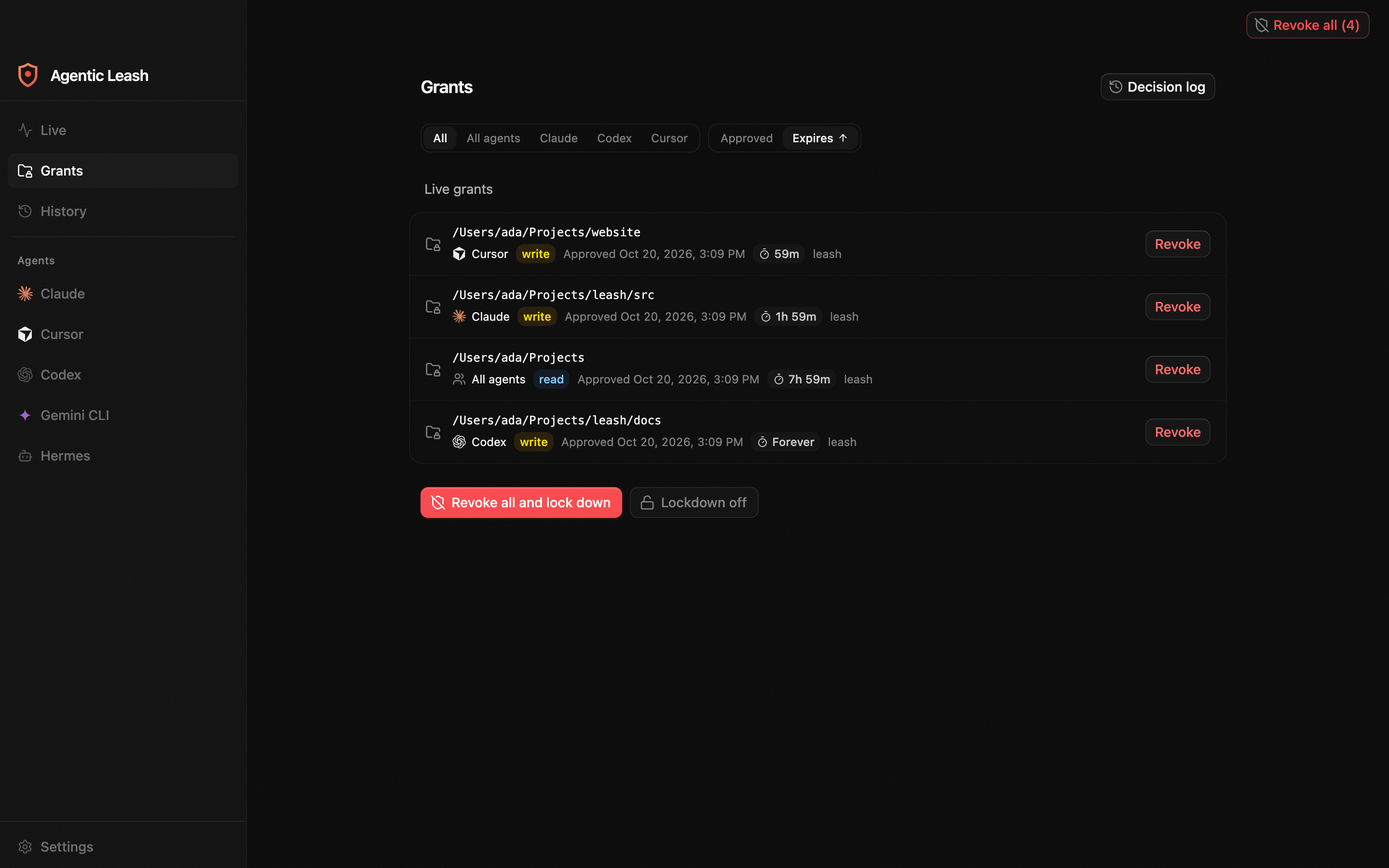
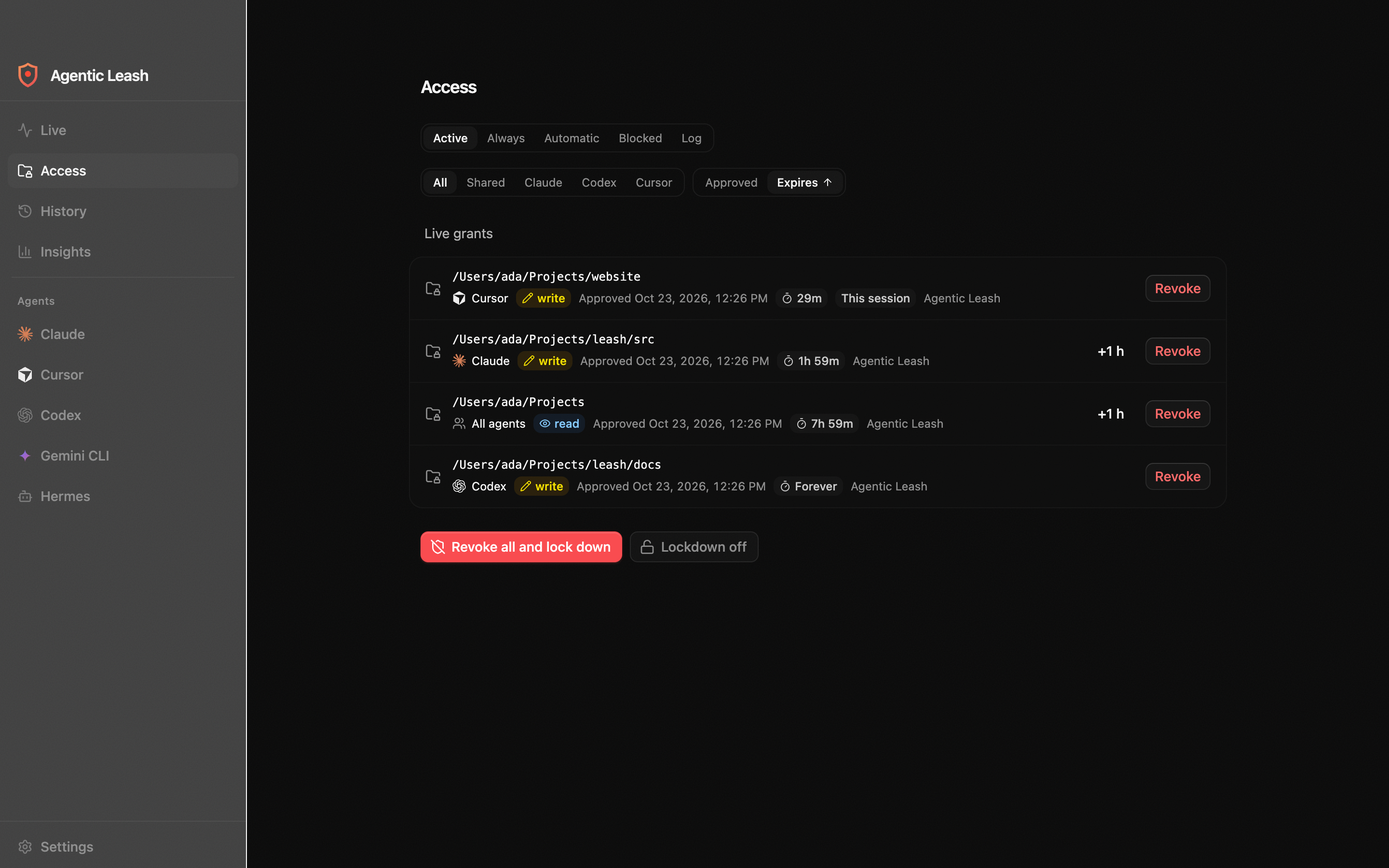
docs: Refresh screenshots, link downloads to the latest release, and add an MIT license
The README now points at the latest release instead of a versioned .dmg, lists supported platforms and agents, and documents the build and screenshot commands. The walkthrough capture follows the v0.2.0 approval popup, and the history still is cropped to show the whole diff.

diff --git a/tests/e2e/marketing.e2e.ts b/tests/e2e/marketing.e2e.ts
@@ -159,16 +159,18 @@ test("walkthrough frames", async () => {
   await new Promise((resolve) => socket.once("connect", resolve));
   socket.write(`${JSON.stringify({ id: "walk-1", request: { agent: "cursor", event: "preToolUse", tool: "Write", access: "write", paths: ["/Users/ada/Projects/website/index.html"], cwd: "/Users/ada/Projects/website" } })}\n`);
   const popup = await app.waitForEvent("window", { predicate: (page) => page.url().includes("#/approval") });
-  await expect(popup.getByText("Cursor wants write access")).toBeVisible();
+  await expect(popup.getByText("Cursor wants to change a file")).toBeVisible();
   await box("popupPath", popup.locator("pre"));
   await shot(popup, "04-approval");
   await popup.getByRole("button", { name: "website", exact: true }).click();
+  await expect(popup.getByText("Allow website this session")).toBeVisible();
+  const allow = popup.getByRole("button", { name: /^This session/ });
   await box("popupScope", popup.getByRole("button", { name: "website", exact: true }));
-  await box("popupTtl", popup.getByRole("radiogroup", { name: "Allow for" }));
-  await box("popupAllow", popup.getByRole("button", { name: /Allow website for 1 hour/ }));
+  await box("popupTtl", allow.locator("xpath=.."));
+  await box("popupAllow", allow);
   await shot(popup, "05-approval-scope");
-  await expect(popup.getByRole("button", { name: /^Allow/ })).toBeEnabled();
-  await popup.keyboard.press("Enter");
+  await expect(allow).toBeEnabled();
+  await allow.click();
   await expect.poll(() => win.evaluate(`window.leash.listGrants().then((rows) => rows.length)`)).toBe(4);
   socket.destroy();
 

diff --git a/README.md b/README.md
@@ -1,12 +1,52 @@
-![Agentic Leash. Your AI agents. On a leash.](docs/media/banner.png)
+<p align="center">
+  <img src="docs/media/banner.png" alt="Agentic Leash. Your AI agents. On a leash." />
+</p>
 
-# Agentic Leash
+<h1 align="center">Agentic Leash</h1>
 
-See and control what AI coding agents can touch on your Mac.
+<p align="center">See and control what AI coding agents can touch on your Mac.</p>
 
-[Download Agentic Leash 0.1.2 for Apple Silicon](https://github.com/velusgautam/Agentic-Leash/releases/download/v0.1.2/Agentic.Leash-0.1.2-arm64.dmg)
+<p align="center">
+  <a href="https://github.com/velusgautam/Agentic-Leash/releases/latest"><img src="https://img.shields.io/github/v/release/velusgautam/Agentic-Leash?label=release" alt="Latest release" /></a>
+  <a href="https://github.com/velusgautam/Agentic-Leash/releases"><img src="https://img.shields.io/github/downloads/velusgautam/Agentic-Leash/total" alt="Downloads" /></a>
+  <a href="https://github.com/velusgautam/Agentic-Leash/actions/workflows/ci.yml"><img src="https://img.shields.io/github/actions/workflow/status/velusgautam/Agentic-Leash/ci.yml?label=ci" alt="CI" /></a>
+  <img src="https://img.shields.io/badge/platform-macOS%20(Apple%20Silicon)-black" alt="Platform: macOS on Apple Silicon" />
+  <a href="LICENSE"><img src="https://img.shields.io/github/license/velusgautam/Agentic-Leash" alt="MIT License" /></a>
+</p>
+
+<p align="center">
+  <a href="#download">Download</a> ·
+  <a href="#features">Features</a> ·
+  <a href="#how-it-hooks-in">How it works</a> ·
+  <a href="#build-from-source">Build from source</a> ·
+  <a href="https://github.com/velusgautam/Agentic-Leash/releases">Changelog</a>
+</p>
 
 Claude, Cursor, Codex, Gemini CLI and Hermes keep working. Agentic Leash watches the files they read and write, asks before they reach a folder you have not allowed, and flags sensitive paths like `~/.ssh` the moment they are touched.
+
+## Download
+
+Get the installer for your platform from the [latest release](https://github.com/velusgautam/Agentic-Leash/releases/latest).
+
+| Platform | Installer | Status |
+| --- | --- | --- |
+| macOS, Apple Silicon | `.dmg`, signed and notarized | Supported |
+| Windows x64 | `.exe` | Preview |
+| Linux x64 | `.AppImage` | Preview |
+
+On Windows and Linux, approvals and grants work, but the file-activity history does not. It relies on macOS `eslogger`.
+
+Release notes for every version are on the [releases page](https://github.com/velusgautam/Agentic-Leash/releases).
+
+## Supported agents
+
+| Agent | Hook events |
+| --- | --- |
+| Claude (desktop app and `claude` CLI) | `PreToolUse` |
+| Codex | `PreToolUse` |
+| Cursor | `preToolUse`, `beforeReadFile`, `beforeShellExecution`, `beforeMCPExecution` |
+| Gemini CLI | `BeforeTool` |
+| Hermes | `pre_tool_call` |
 
 ## Features
 
@@ -14,7 +54,7 @@ Claude, Cursor, Codex, Gemini CLI and Hermes keep working. Agentic Leash watches
 
 ![Grants filtered and sorted by expiry](docs/media/grants.png)
 
-A grant can last 15 minutes, a couple of hours, or forever. Filter the list by agent and sort it by when it was approved or when it expires.
+A grant can last one call, a session, a day, or forever. The Access page lists every live grant with its time left. Filter the list by agent and sort it by when it was approved or when it expires.
 
 ### Revoke, then lock down
 
@@ -38,7 +78,7 @@ Reads of `~/.ssh`, `~/.aws` and other secret paths are marked in red on Live and
 
 ![Approval popup for a Cursor write to a new folder](docs/media/approval.png)
 
-A tool call outside an existing grant opens this popup. Allow it for 15 minutes, 1 hour, 8 hours or always, or deny it. The same choices are on the Grants page while a request is waiting.
+A tool call outside an existing grant opens this popup. Allow it once, for this session or for today, widen it to the whole folder, or deny it. Never blocks it for good. The same choices are on the Access page while a request is waiting.
 
 ### Appearance
 
@@ -111,17 +151,38 @@ Setup installs the hook into each agent that is turned on. The hook asks the bro
 
 Separately, a root helper tails `eslogger` and writes file activity into `history.db`, including the before and after of writes and a sensitive flag. Live and History read that database. The grant shown beside a write is the one whose folder covers the path.
 
-## Run it
+## First run
 
-macOS on Apple Silicon, Node 24 and pnpm 12.
+The first open stays on setup until the history helper is running and Full Disk Access is granted. The helper is a root LaunchDaemon, so macOS asks for an administrator password once. Turning an agent off in Settings hides it and removes its hooks.
+
+## Build from source
+
+Needs macOS on Apple Silicon, Node 24 and pnpm 12.
 
 ```bash
 pnpm install
 pnpm dev
 ```
 
-`pnpm test` runs the unit tests. `pnpm test:e2e` launches the window. `pnpm dist` builds `dist/Agentic Leash-0.1.2-arm64.dmg`.
+| Command | What it does |
+| --- | --- |
+| `pnpm test` | Runs the unit tests |
+| `pnpm test:e2e` | Builds the app and runs the Playwright tests against the window |
+| `pnpm dist` | Builds the signed macOS installer into `dist/` |
+| `pnpm dist:win`, `pnpm dist:linux` | Build the Windows and Linux installers |
 
-The first open stays on setup until the history helper is running and Full Disk Access is granted. In a dev build the helper step reads "Available in the installed app". Claude covers both the desktop app and the `claude` CLI. Turning an agent off in Settings hides it and removes its hooks. The helper is a root LaunchDaemon, so macOS asks for an administrator password once.
+In a dev build the helper step in setup reads "Available in the installed app".
 
-`SCREENSHOTS=1 pnpm exec playwright test tests/e2e/marketing.e2e.ts -g walkthrough` captures the app frames. `node docs/media/launch/record-stills.mjs` turns them into the banner and feature images.
+### Screenshots
+
+```bash
+pnpm build
+SCREENSHOTS=1 pnpm exec playwright test tests/e2e/marketing.e2e.ts -g walkthrough
+pnpm exec node docs/media/launch/record-stills.mjs
+```
+
+The first command builds the app. The second captures the app frames into `docs/media/walkthrough`. The third turns those frames into the banner and the feature images.
+
+## License
+
+[MIT](LICENSE). Code copied from other projects keeps its own license, listed in [THIRD_PARTY_LICENSES.md](THIRD_PARTY_LICENSES.md).
